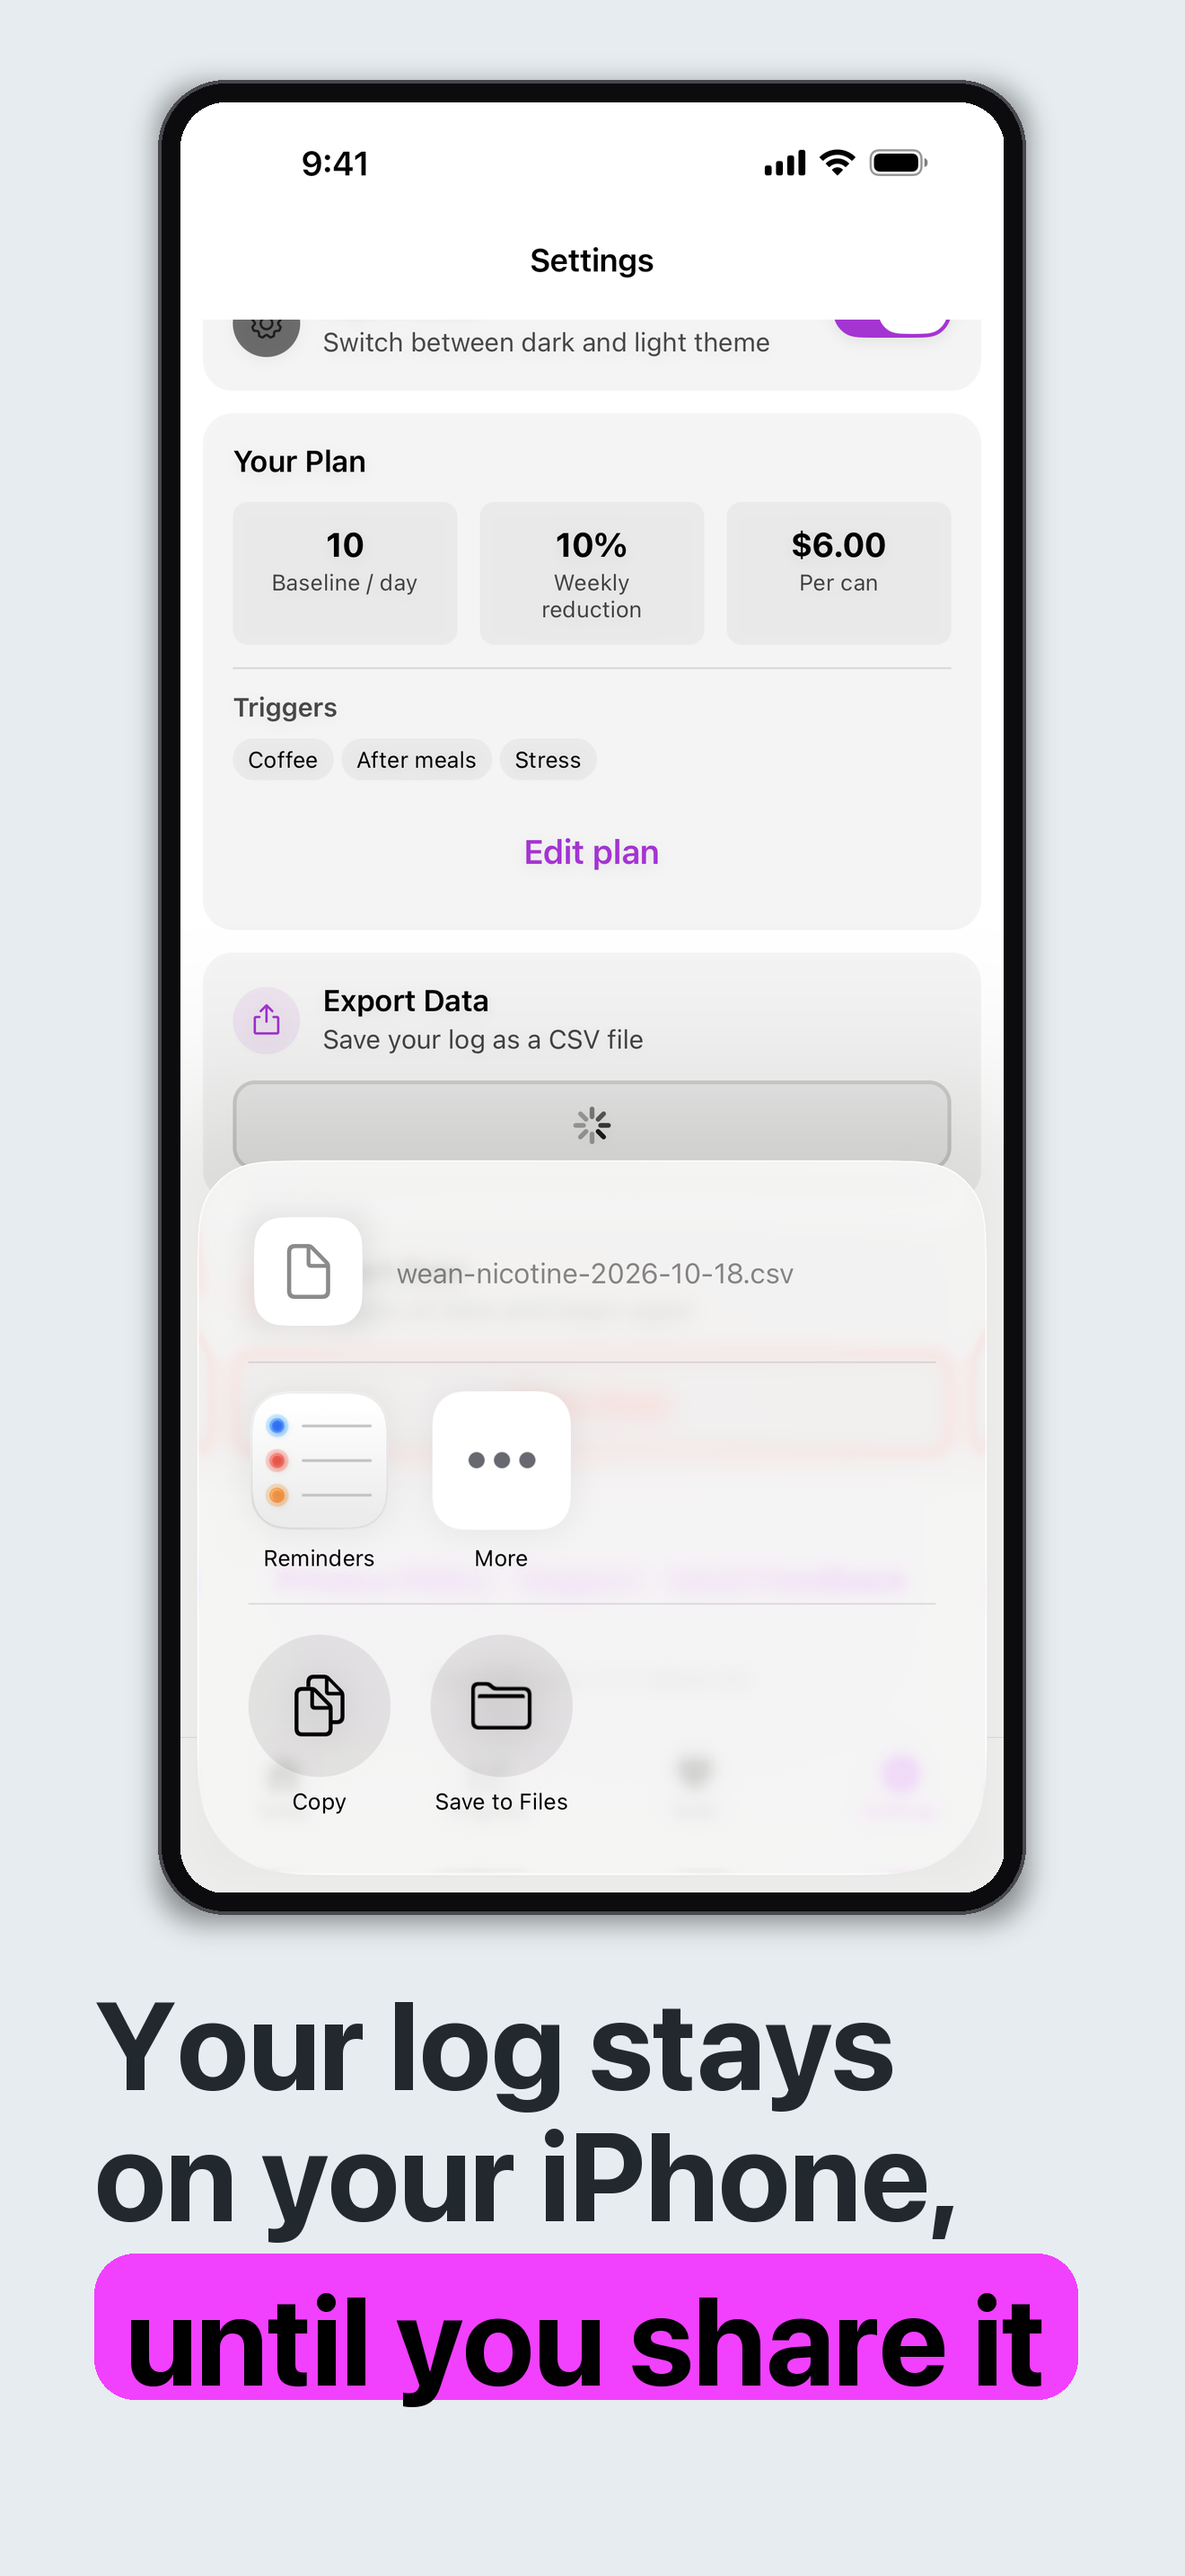
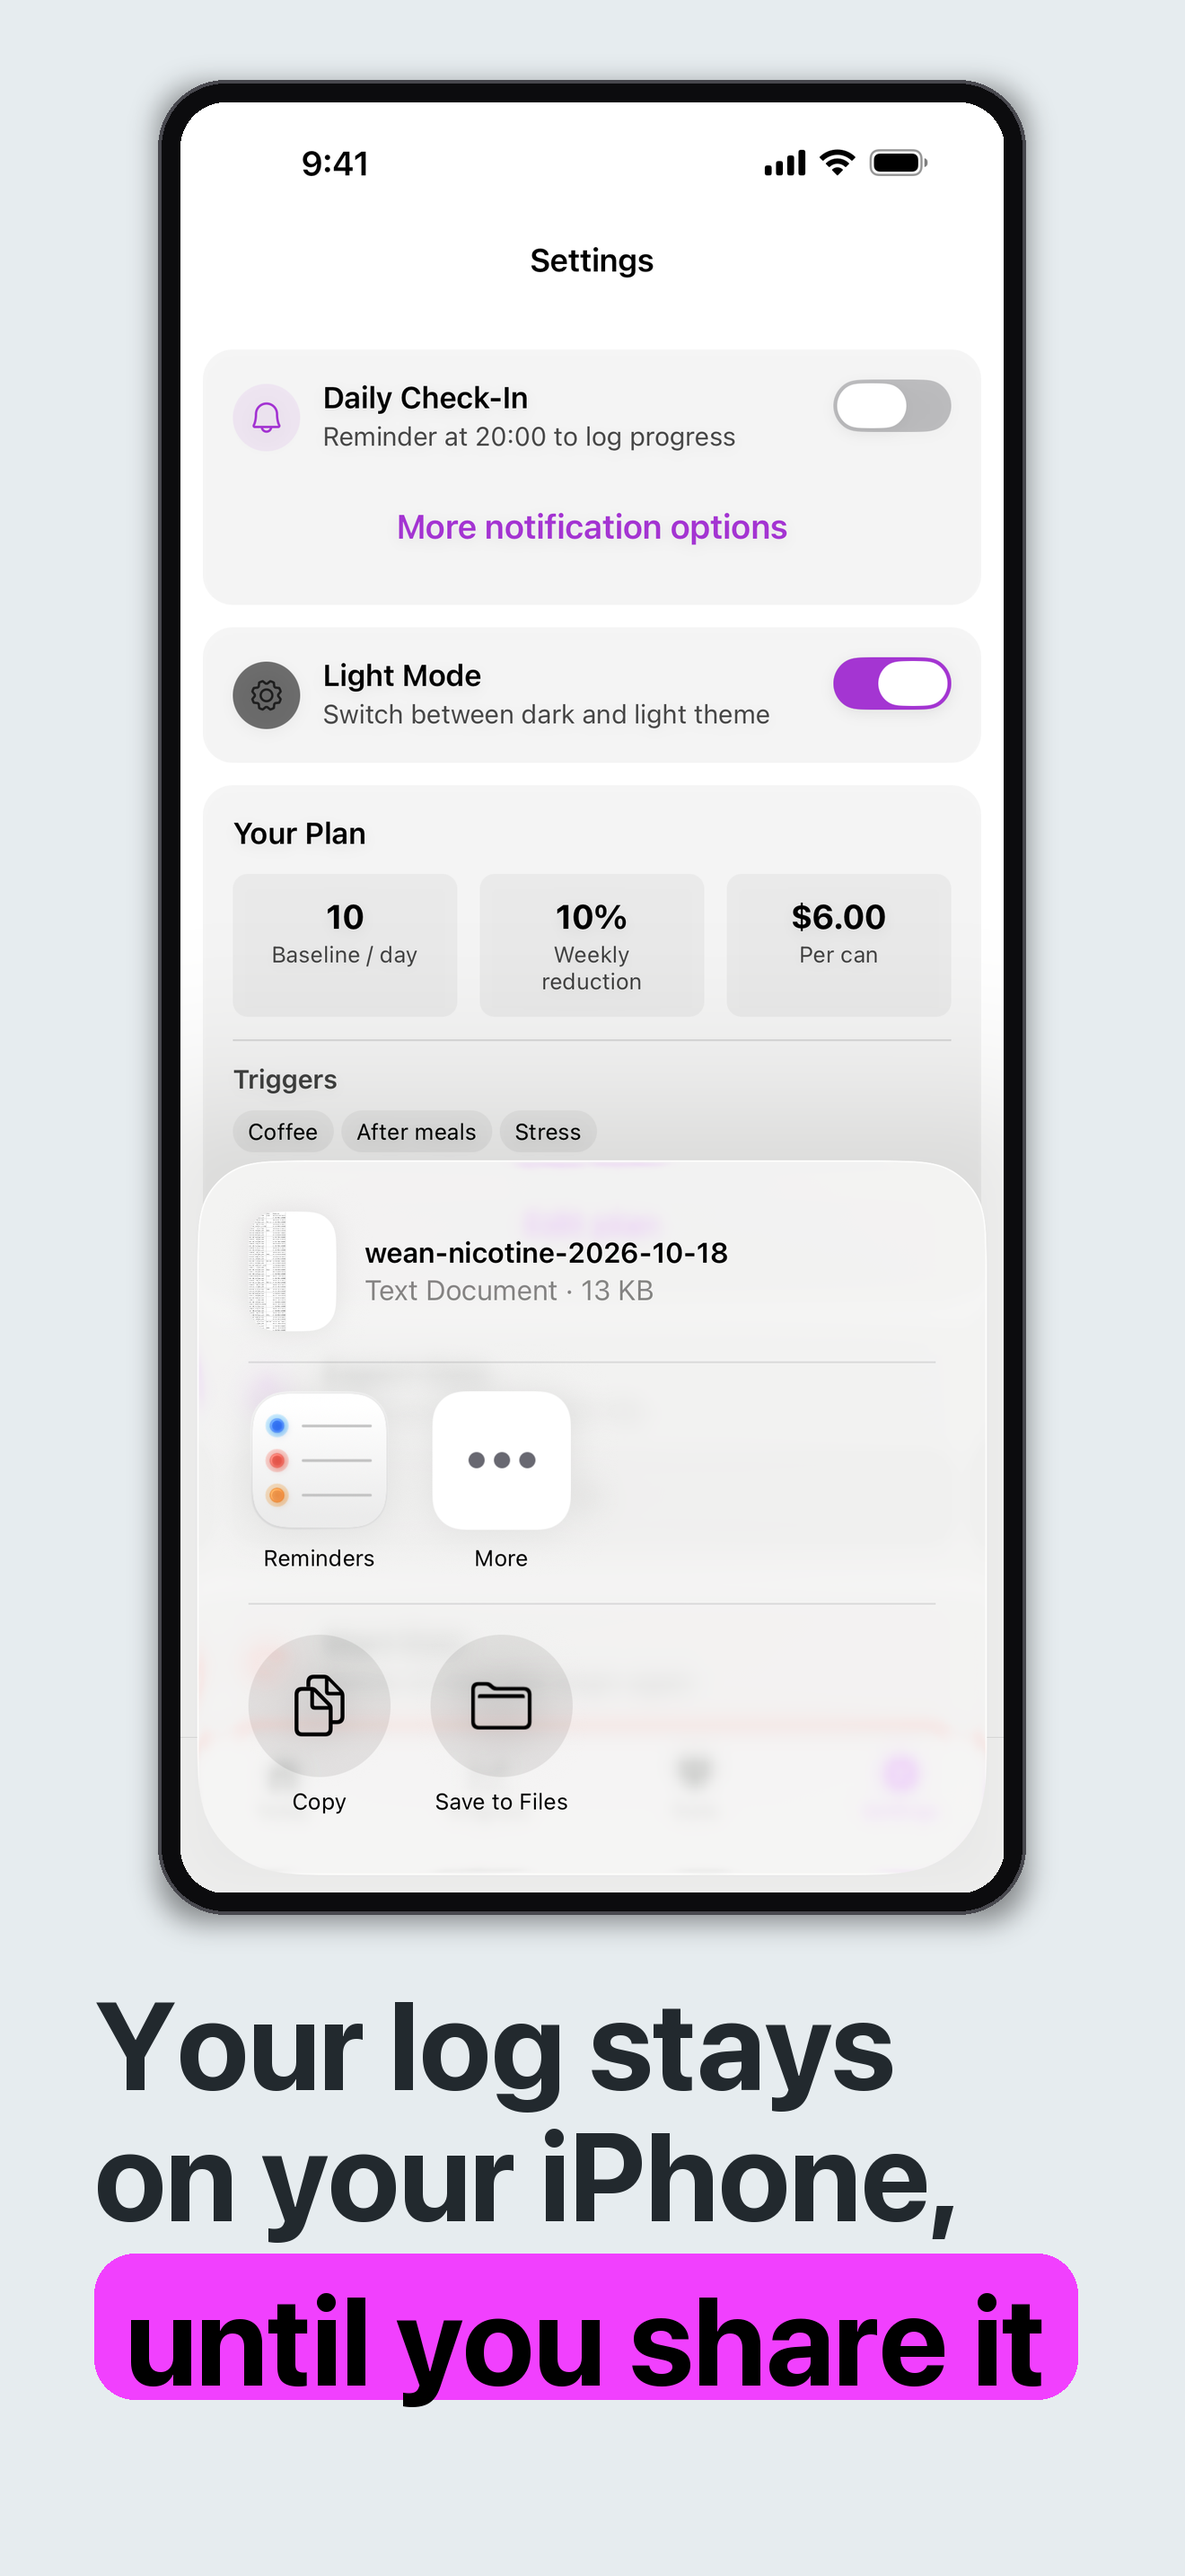
store(409): poster 6 re-captured with the share sheet settled
The first capture caught the sheet mid-animation: the red Start Over
button showed through the glass as a band, the line under the file name
was a blur, and the spinner was plain to see. Retaken from the top of
Settings after the sheet had settled, and only poster 6 recomposed.
Posters 1 to 5 rebuild byte-identical. The README says to wait.

diff --git a/appstore/README.md b/appstore/README.md
@@ -83,14 +83,14 @@ same session without relaunching.
 
 In order, each in the same session after Light Mode is on:
 
-| Raw            | How to get there                                                                                      |
-| -------------- | ----------------------------------------------------------------------------------------------------- |
-| `today.png`    | Today, before any tap: 2 of 6                                                                         |
-| `progress.png` | Progress, then **Last Week** (a whole week, whatever day it is; This Week holds only the days so far) |
-| `settings.png` | Settings, scrolled to the top: the reminder, Light Mode, Your Plan and Export                         |
-| `patterns.png` | Progress, scrolled until the Patterns card sits under the title, with Milestones below it             |
-| `tools.png`    | Tools                                                                                                 |
-| `export.png`   | Settings, then Export: the share sheet with the CSV file. Close it afterwards without sending         |
+| Raw            | How to get there                                                                                                                                                                                                                      |
+| -------------- | ------------------------------------------------------------------------------------------------------------------------------------------------------------------------------------------------------------------------------------- |
+| `today.png`    | Today, before any tap: 2 of 6                                                                                                                                                                                                         |
+| `progress.png` | Progress, then **Last Week** (a whole week, whatever day it is; This Week holds only the days so far)                                                                                                                                 |
+| `settings.png` | Settings, scrolled to the top: the reminder, Light Mode, Your Plan and Export                                                                                                                                                         |
+| `patterns.png` | Progress, scrolled until the Patterns card sits under the title, with Milestones below it                                                                                                                                             |
+| `tools.png`    | Tools                                                                                                                                                                                                                                 |
+| `export.png`   | Settings scrolled to the top, then Export. Wait about five seconds, until the sheet has settled: the file name, "Text Document" and the preview sharp, and nothing red showing through the glass. Close it afterwards without sending |
 
 Wait for any system banner to go before a capture (a new simulator shows one for Apple
 Intelligence), and check each raw for one afterwards. Every simulator capture also has a 3 × 3
